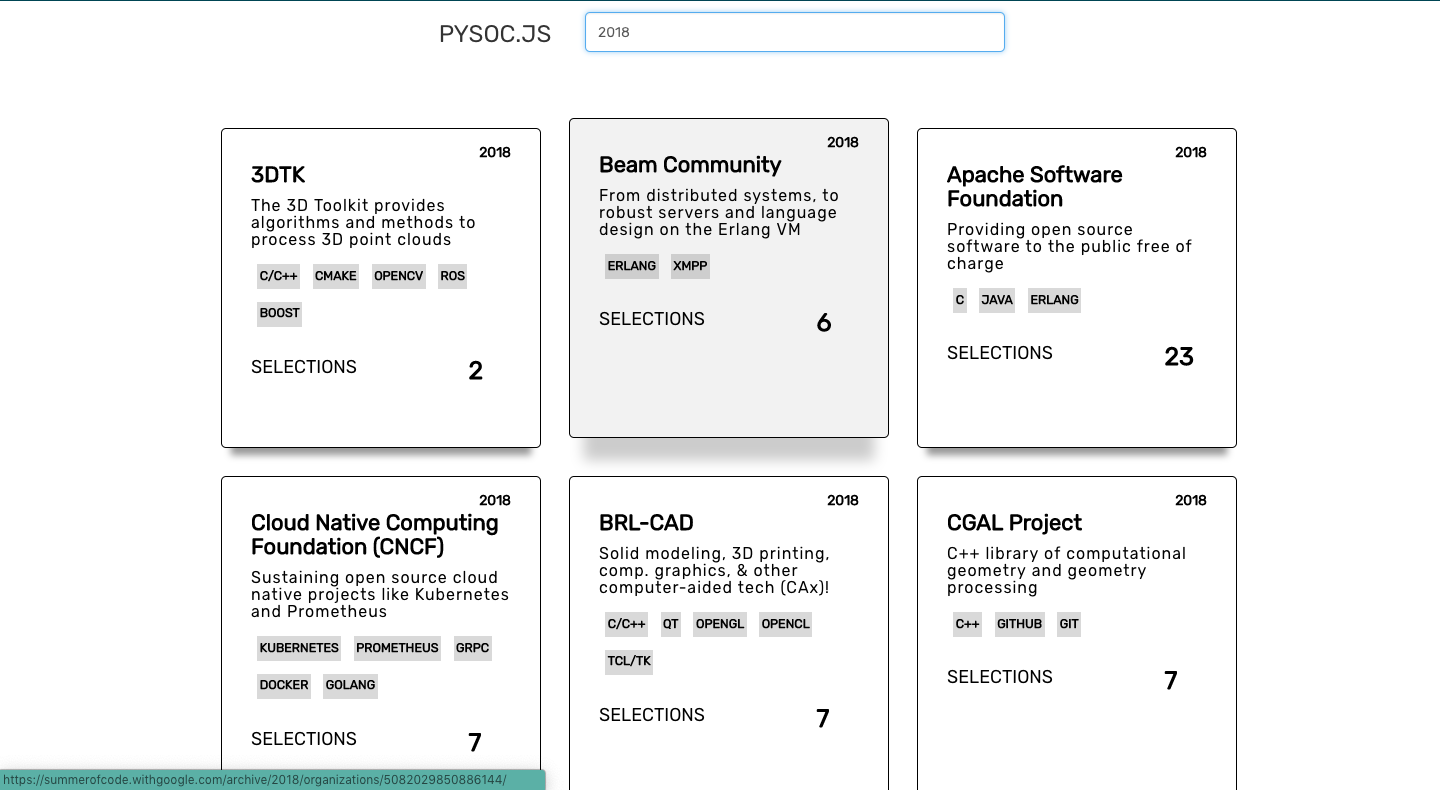
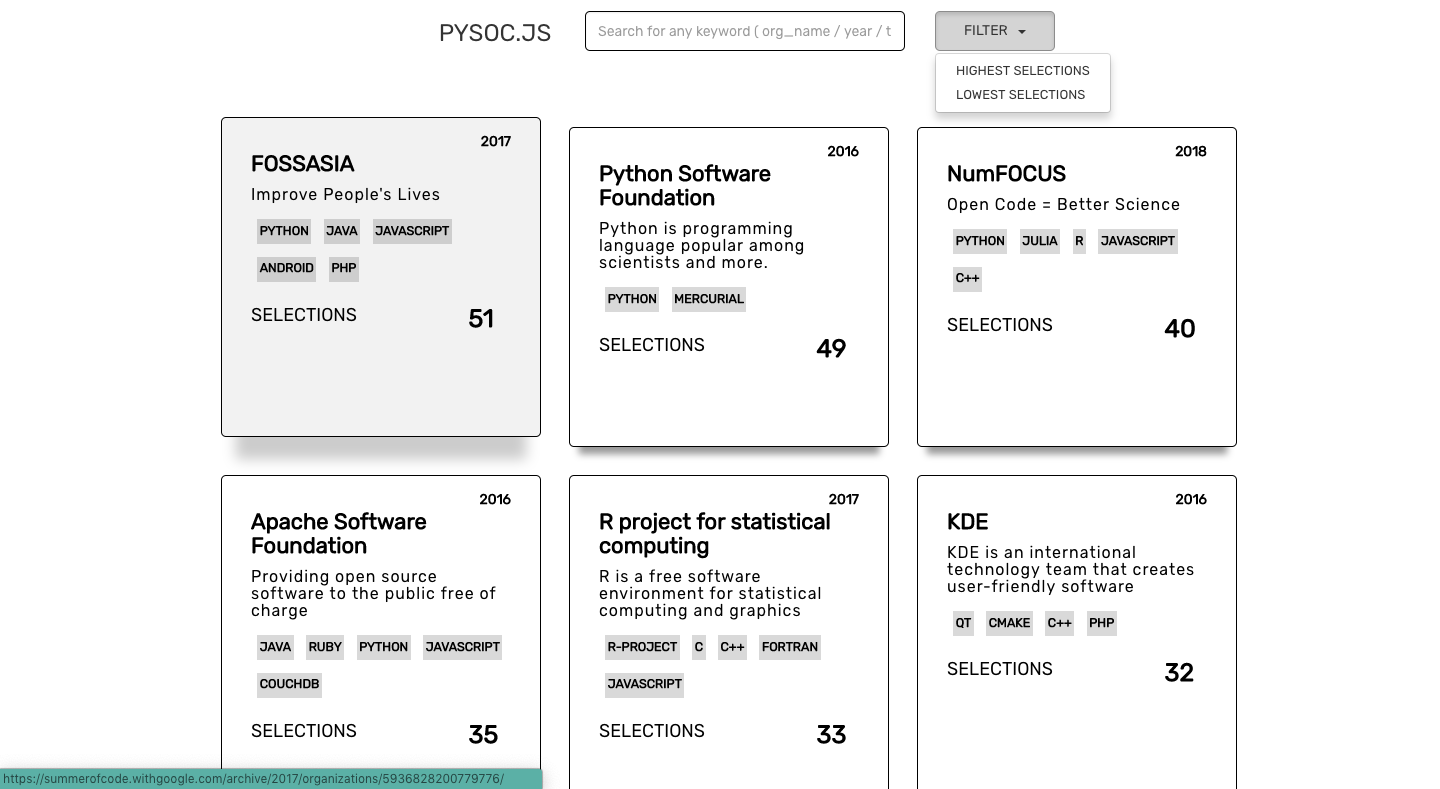
filters added

diff --git a/src/App.js b/src/App.js
@@ -44,17 +44,38 @@ class App extends Component {
     let { orgs_data } = this.state;
     var keyword = e.target.value;
     let filtered = [];
-    for(let org of orgs_data) {
-      for(let tech of org.org_tech_list) {
-        if(tech.toLowerCase() == keyword.toLowerCase()) {
+    if(keyword != "") {
+      for(let org of orgs_data) {
+        for(let tech of org.org_tech_list) {
+          if(tech.toLowerCase() == keyword.toLowerCase()) {
+            filtered.push(org);
+          }
+        }
+        if(String(org.org_name.toLowerCase()).match(keyword.toLowerCase()) || String(org.year).match(keyword)) {
           filtered.push(org);
         }
       }
-      if(String(org.org_name.toLowerCase()).match(keyword.toLowerCase()) || String(org.year).match(keyword)) {
-        filtered.push(org);
-      }
+    }
+    else {
+      filtered = orgs_data;
     }
     this.setState({ keyword: e.target.value, filtered: filtered })
+  }
+
+  filter(option, e) {
+    let orgs_data = this.state.orgs_data;
+    if(option == 1) {
+      orgs_data.sort((a, b) => {
+        return (b.org_selections-a.org_selections);
+      });
+      this.setState({ filtered: orgs_data });
+    }
+    else if(option == 2) {
+      orgs_data.sort((a, b) => {
+        return (a.org_selections-b.org_selections);
+      });
+      this.setState({ filtered: orgs_data });
+    }
   }
 
 
@@ -68,8 +89,19 @@ class App extends Component {
             <div className="col-md-3">
               <h3 className="title">PYSOC.JS</h3>
             </div>
-            <div className="col-md-9">
+            <div className="col-md-7">
               <input placeholder="Search for any keyword ( org_name / year / technology )" className="search_bar form-control" onChange={this.keyword.bind(this)}/>
+            </div>
+            <div className="col-md-2">
+              <div className="btn-group">
+                <button type="button" className="btn btn-default dropdown-toggle filter" data-toggle="dropdown" aria-haspopup="true" aria-expanded="false">
+                  FILTER &nbsp;&nbsp;<span className="caret"></span>
+                </button>
+                <ul className="dropdown-menu">
+                  <li><a href="#" className="item" onClick={this.filter.bind(this, 1)}>highest selections</a></li>
+                  <li><a href="#" className="item" onClick={this.filter.bind(this, 2)}>lowest selections</a></li>
+                </ul>
+              </div>
             </div>
           </div>
         </div>

diff --git a/public/index.html b/public/index.html
@@ -10,7 +10,9 @@
     -->
     <link rel="manifest" href="%PUBLIC_URL%/manifest.json">
     <link href="https://fonts.googleapis.com/css?family=Rubik" rel="stylesheet">
+    <script src="//ajax.googleapis.com/ajax/libs/jquery/1.11.0/jquery.min.js"></script>
     <link rel="stylesheet" href="https://maxcdn.bootstrapcdn.com/bootstrap/3.3.7/css/bootstrap.min.css" integrity="sha384-BVYiiSIFeK1dGmJRAkycuHAHRg32OmUcww7on3RYdg4Va+PmSTsz/K68vbdEjh4u" crossorigin="anonymous">
+    <script src="https://maxcdn.bootstrapcdn.com/bootstrap/3.3.7/js/bootstrap.min.js" integrity="sha384-Tc5IQib027qvyjSMfHjOMaLkfuWVxZxUPnCJA7l2mCWNIpG9mGCD8wGNIcPD7Txa" crossorigin="anonymous"></script>
     <!--
       Notice the use of %PUBLIC_URL% in the tags above.
       It will be replaced with the URL of the `public` folder during the build.

diff --git a/src/index.css b/src/index.css
@@ -21,6 +21,11 @@ body {
   text-align: center;
 }
 
+.item {
+  font-size: 13px;
+  text-transform: uppercase;
+}
+
 .search_bar {
   box-shadow: 0;
   width: 100%;
@@ -31,9 +36,9 @@ body {
 
 .filter {
   border: 1px solid black;
-  width: 100%;
+  width: 120px;
   height: 40px;
-  border-radius: 20px;
+  border-radius: 5px;
 }
 
 .org_card {
@@ -104,7 +109,7 @@ body {
 }
 
 .selections {
-  margin-top: 1em;
+  margin-top: 0.5em;
 }
 
 .selects {

diff --git a/README.md b/README.md
@@ -2,6 +2,8 @@
 
 Simple gsoc data scraper, search for any keyword and get data about the orgs that match your search criteria
 
+Use `FILTERS` to Sort and Analyse the Data, lets you sort data based on the `number of selections`.
+
 Try it out here: [https://pysocjs.herokuapp.com/](https://pysocjs.herokuapp.com/)
 
 ![ss](ss.png)
